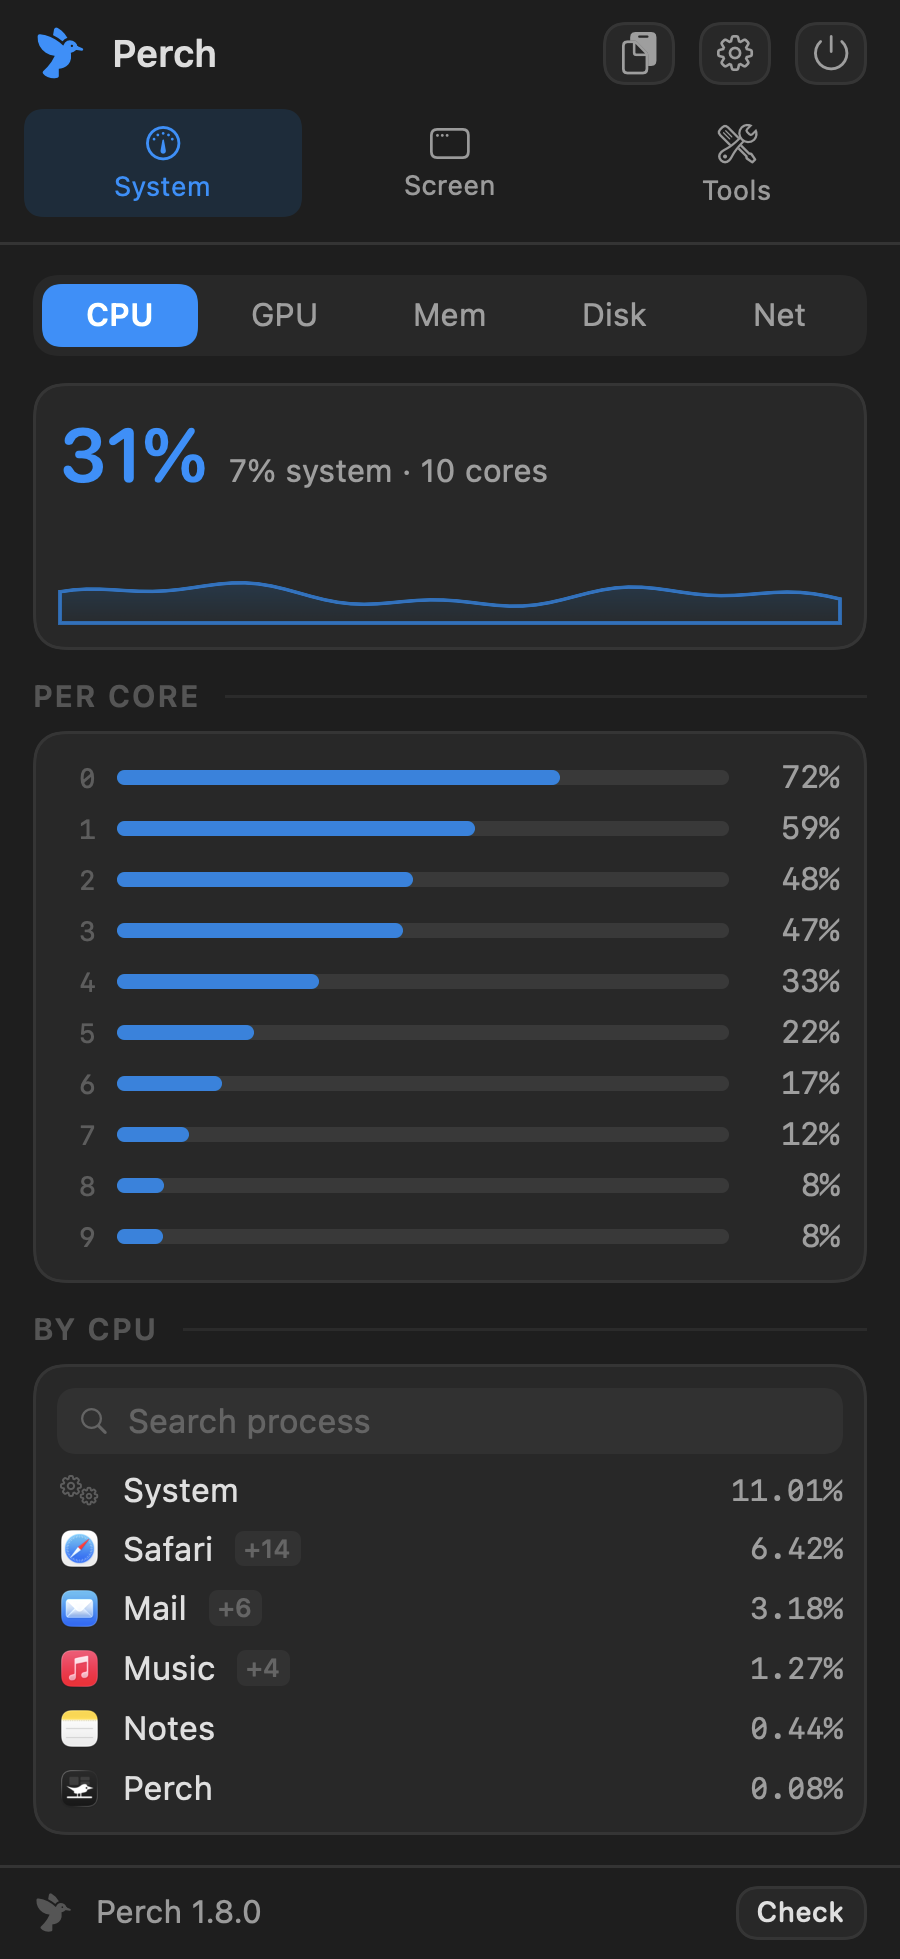
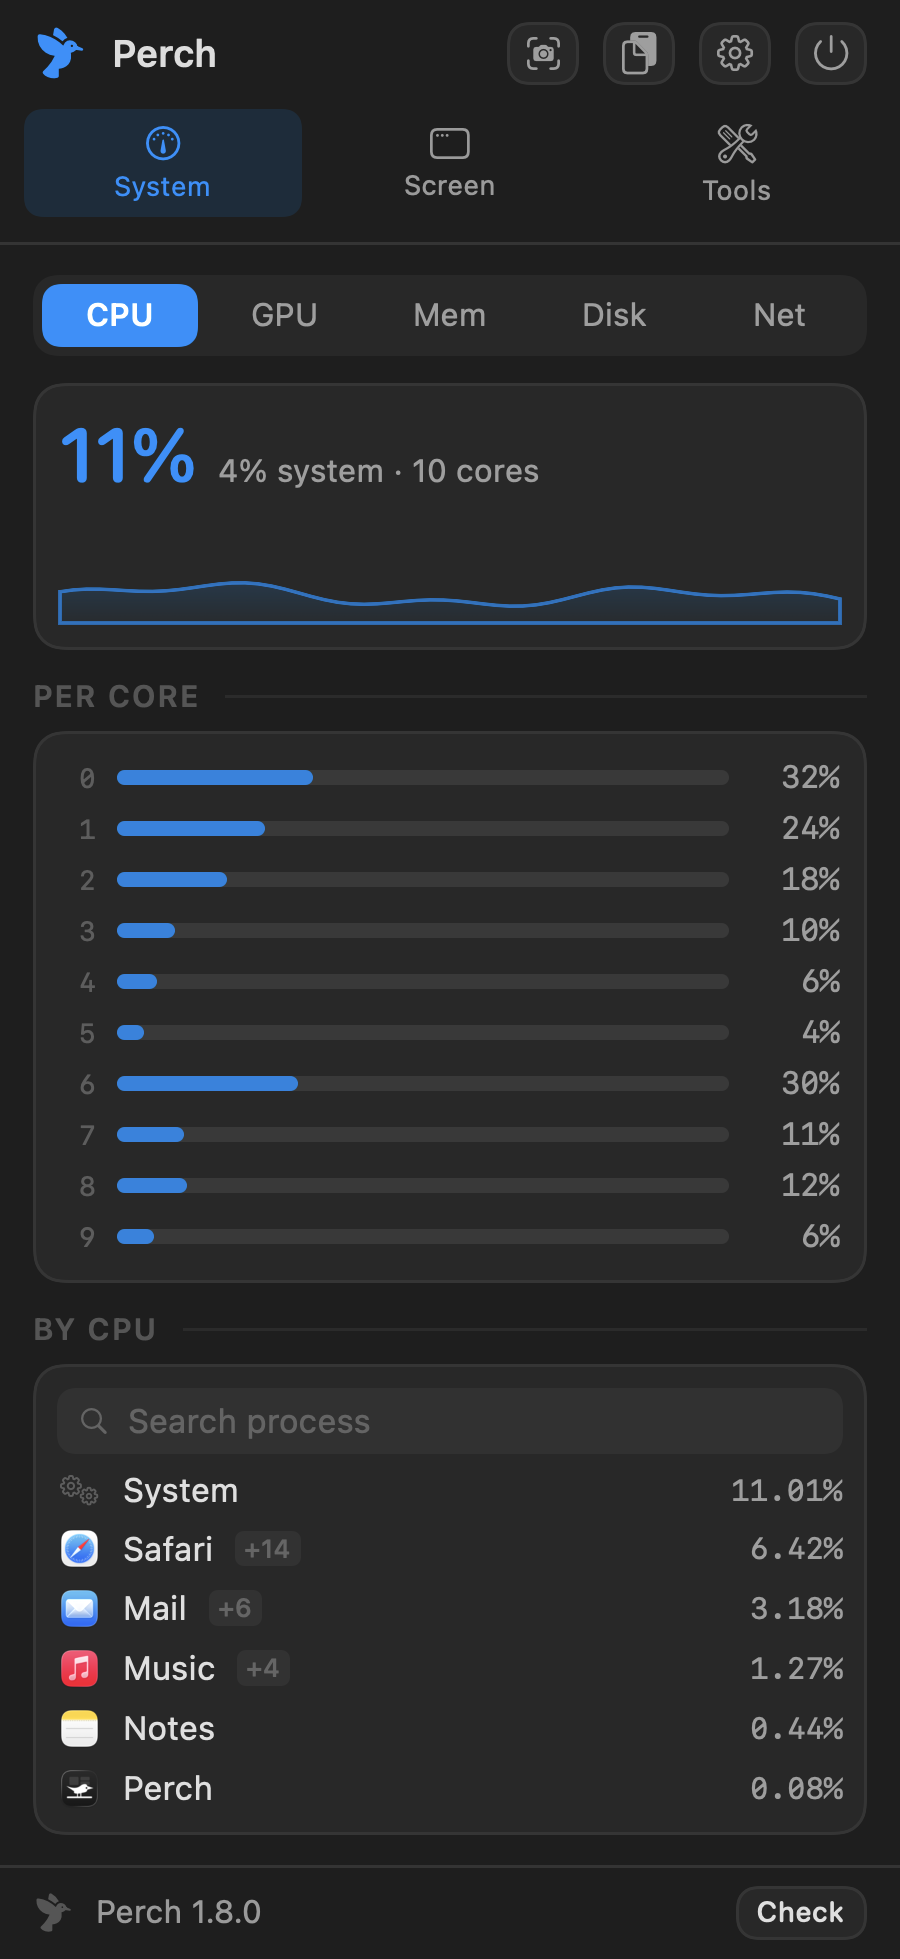
Move Screenshot to the header, and fix what the site said about it
As a tile it was a seventh item in a three-column grid, so it sat alone
on a row of its own with two empty cells beside it. It is a small icon
button in the header now, ahead of the clipboard one, which is where the
things you reach for without thinking already live. The grid goes back
to an even two by three.

The site's own copy of the panel was wrong twice over. Its footer still
read 1.6.0, two releases behind, because that string is written into the
page rather than rendered. And the Screenshot caption listed six modes,
which is longer than the box that was sized to the descriptions that
existed when it was built, so it was cut off mid-sentence. Moving the
button out of the tools list removes the caption along with it; the
feature is described in the capability grid and the shortcut table
instead, where there is room for it.

diff --git a/docs/index.html b/docs/index.html
@@ -706,6 +706,7 @@
         <div class="pp">
           <div class="pp-head">
             <svg class="bird"><use href="#i-bird"/></svg><b>Perch</b><span class="sp"></span>
+            <s><svg class="ico"><use href="#i-camera"/></svg></s>
             <s><svg class="ico"><use href="#i-clipboard"/></svg></s>
             <s><svg class="ico"><use href="#i-gear"/></svg></s>
             <s><svg class="ico"><use href="#i-power"/></svg></s>
@@ -735,7 +736,7 @@
             </div>
           </div>
           <div class="pp-foot">
-            <svg class="bird"><use href="#i-bird"/></svg><span>Perch 1.6.0 — up to date</span>
+            <svg class="bird"><use href="#i-bird"/></svg><span>Perch 1.8.0 — up to date</span>
             <span class="sp"></span><em>Check</em>
           </div>
         </div>
@@ -758,6 +759,7 @@
         <div class="pp">
           <div class="pp-head">
             <svg class="bird"><use href="#i-bird"/></svg><b>Perch</b><span class="sp"></span>
+            <s><svg class="ico"><use href="#i-camera"/></svg></s>
             <s><svg class="ico"><use href="#i-clipboard"/></svg></s>
             <s><svg class="ico"><use href="#i-gear"/></svg></s>
             <s><svg class="ico"><use href="#i-power"/></svg></s>
@@ -784,7 +786,7 @@
             <div class="live-rows" id="liveRows"></div>
           </div>
           <div class="pp-foot">
-            <svg class="bird"><use href="#i-bird"/></svg><span>Perch 1.6.0 — up to date</span>
+            <svg class="bird"><use href="#i-bird"/></svg><span>Perch 1.8.0 — up to date</span>
             <span class="sp"></span><em>Check</em>
           </div>
         </div>
@@ -809,6 +811,7 @@
         <div class="pp">
           <div class="pp-head">
             <svg class="bird"><use href="#i-bird"/></svg><b>Perch</b><span class="sp"></span>
+            <s><svg class="ico"><use href="#i-camera"/></svg></s>
             <s><svg class="ico"><use href="#i-clipboard"/></svg></s>
             <s><svg class="ico"><use href="#i-gear"/></svg></s>
             <s><svg class="ico"><use href="#i-power"/></svg></s>
@@ -825,7 +828,7 @@
             <div class="pp-card" id="switchCard"></div>
           </div>
           <div class="pp-foot">
-            <svg class="bird"><use href="#i-bird"/></svg><span>Perch 1.6.0 — up to date</span>
+            <svg class="bird"><use href="#i-bird"/></svg><span>Perch 1.8.0 — up to date</span>
             <span class="sp"></span><em>Check</em>
           </div>
         </div>
@@ -1321,9 +1324,7 @@ Scripts/install.sh</pre>
       { n:'Disk Clean',    i:'i-drive',    k:'panel',
         d:'Caches, logs and old downloads. A path guard refuses system and home directories, and everything goes to the Trash.' },
       { n:'Trackpad Clean',i:'i-trackpad', k:'⌃⌥⇧T',
-        d:'Freezes the pointer only. The keyboard stays live, so press ⎋ to unlock when you are done wiping.' },
-      { n:'Screenshot',    i:'i-camera',   k:'⌃⌥⇧4',
-        d:'Drag to capture and the crosshair stays up for the next one. W grabs a window, F a display, D after a countdown, T copies the text in a selection, C samples a colour, P pins it above everything.' }
+        d:'Freezes the pointer only. The keyboard stays live, so press ⎋ to unlock when you are done wiping.' }
     ];
 
     var tName = document.getElementById('toolName'), tDesc = document.getElementById('toolDesc');

diff --git a/Sources/Perch/UI/MainPanelView.swift b/Sources/Perch/UI/MainPanelView.swift
@@ -157,6 +157,10 @@ struct MainPanelView: View {
                 .foregroundStyle(Color.accentColor)
             Text("Perch").font(.system(size: 12.5, weight: .semibold))
             Spacer()
+            iconButton("camera.viewfinder", help: "Screenshot  (⌃⌥⇧4)") {
+                onDismiss()
+                ScreenshotOverlay.shared.open()
+            }
             iconButton("doc.on.clipboard", help: "Clipboard History  (⌘⇧V)") {
                 onDismiss()
                 ClipboardPanelController.shared.toggle()
@@ -341,9 +345,6 @@ struct MainPanelView: View {
                     tool("internaldrive", "Disk Clean", .purple) { SettingsWindow.shared.show(tab: .disk) }
                     tool("rectangle.and.hand.point.up.left", "Trackpad Clean", .pink) {
                         InputCleaner.shared.start(.trackpad)
-                    }
-                    tool("camera.viewfinder", "Screenshot", .indigo) {
-                        ScreenshotOverlay.shared.open()
                     }
                 }
             }
